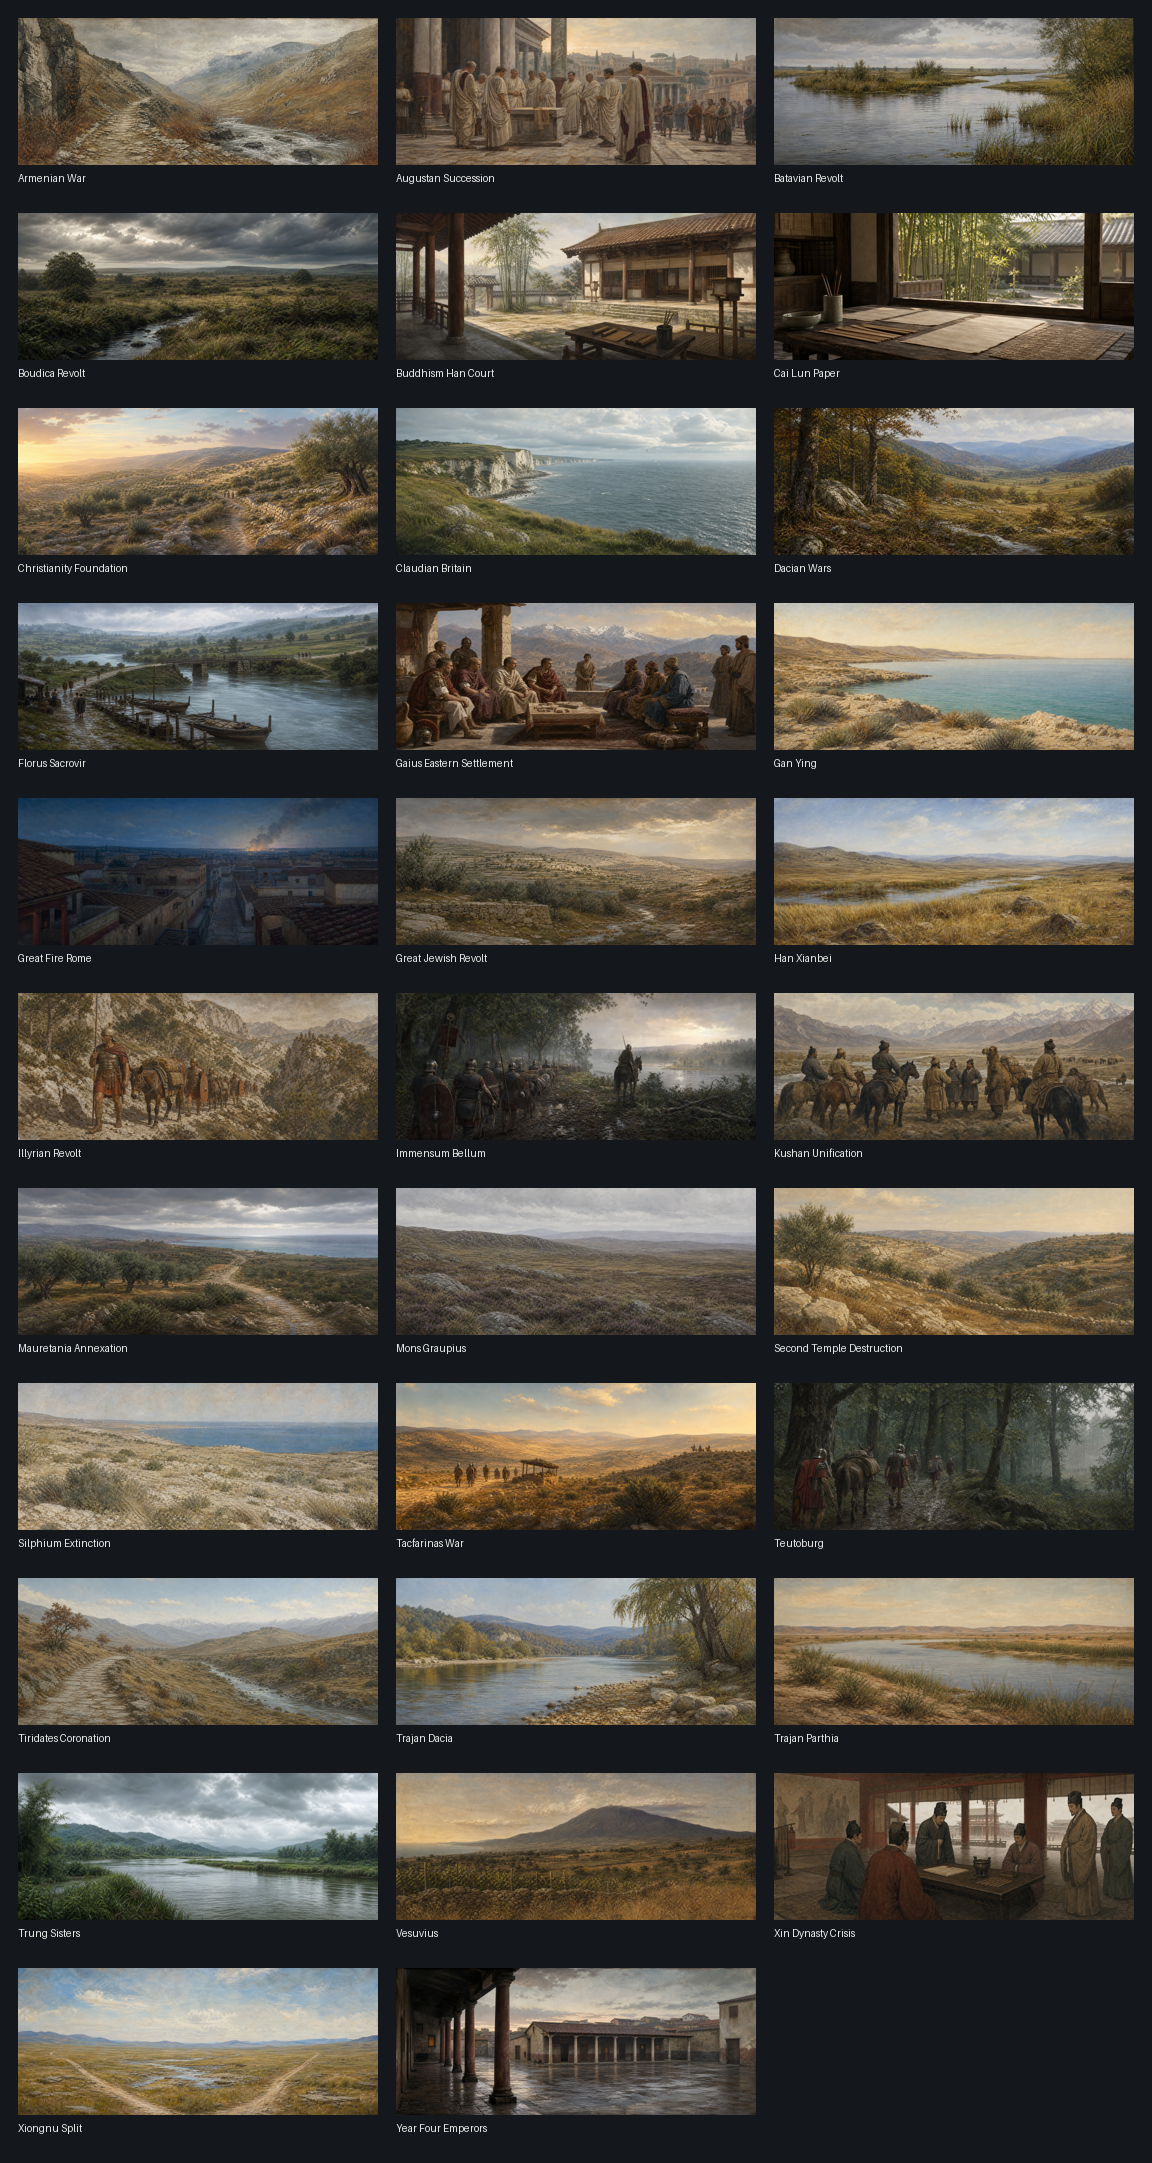
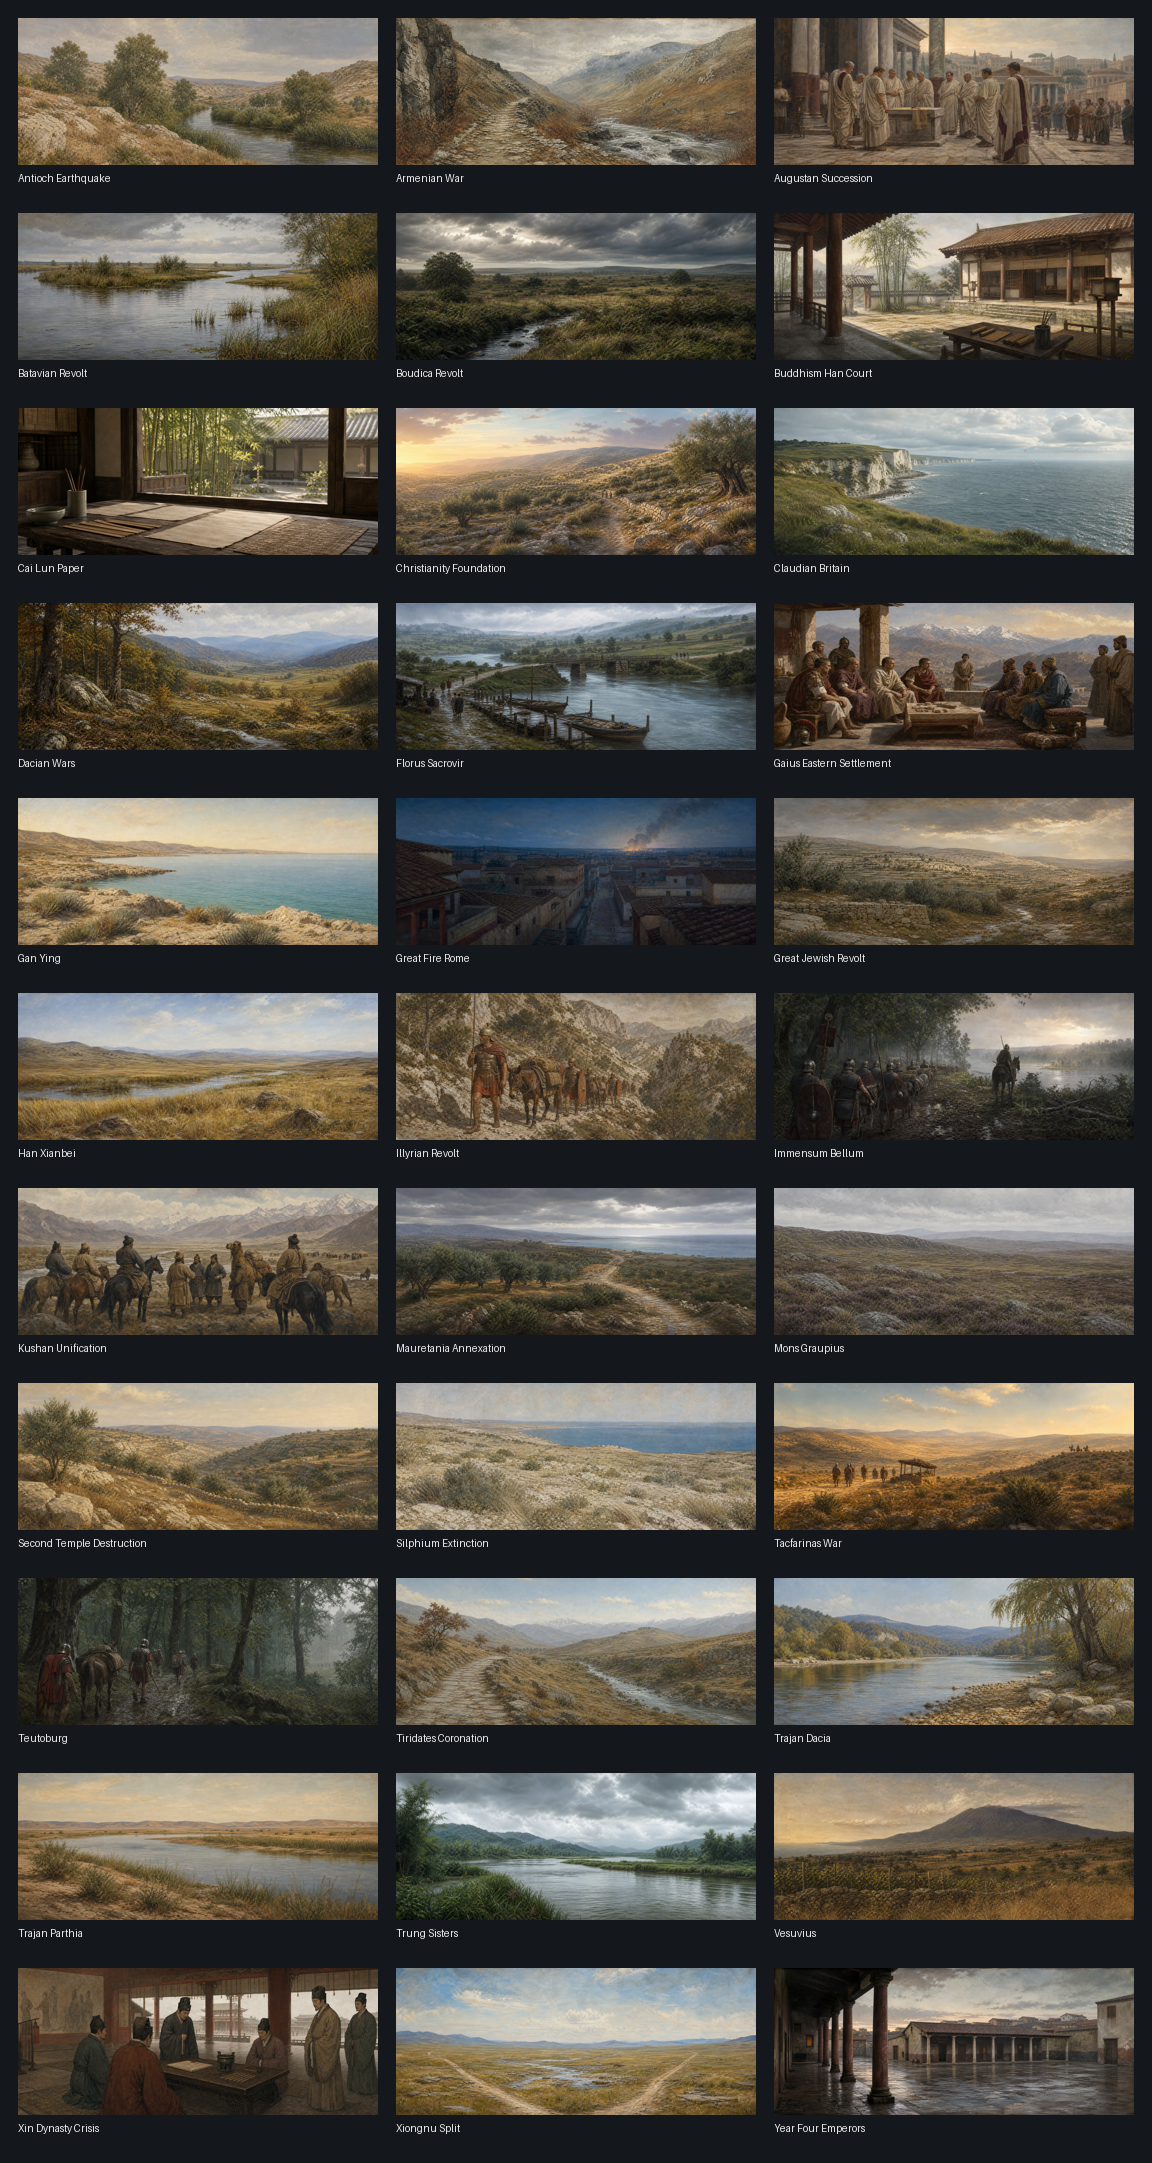
docs(m11): record Antioch earthquake art

diff --git a/docs/m11/contact_sheet.html b/docs/m11/contact_sheet.html
@@ -1,5 +1,6 @@
 <!doctype html>
 <html lang="en"><head><meta charset="utf-8"><title>ANTIQVITAS M11 Event Art Contact Sheet</title><style>body{background:#14171b;color:#eee;font:16px system-ui;margin:2rem}main{max-width:1200px;margin:auto}section{display:grid;grid-template-columns:repeat(3,1fr);gap:18px}figure{margin:0;background:#20252b;padding:8px}img{width:100%;height:auto;display:block}figcaption{padding:8px 2px 2px;text-transform:none}</style></head><body><main><h1>ANTIQVITAS M11 event-art review</h1><p>Generated from retained 1080x440 masters. Each image remains subject to its individual scope record.</p><section>
+    <figure><img src="../../assets_queue/generated/antq_antioch_earthquake_1080x440.png" alt="Antioch Earthquake"><figcaption>Antioch Earthquake</figcaption></figure>
     <figure><img src="../../assets_queue/generated/antq_armenian_war_1080x440.png" alt="Armenian War"><figcaption>Armenian War</figcaption></figure>
     <figure><img src="../../assets_queue/generated/antq_augustan_succession_1080x440.png" alt="Augustan Succession"><figcaption>Augustan Succession</figcaption></figure>
     <figure><img src="../../assets_queue/generated/antq_batavian_revolt_1080x440.png" alt="Batavian Revolt"><figcaption>Batavian Revolt</figcaption></figure>

diff --git a/docs/m11/M11_ANTIOCH_EARTHQUAKE_ART.md b/docs/m11/M11_ANTIOCH_EARTHQUAKE_ART.md
@@ -1,0 +1,26 @@
+# M11 Antioch earthquake illustration
+
+## Asset and scope
+
+The retained source is
+`assets_queue/generated_sources/antq_antioch_earthquake_source.png`; its exact
+1080x440 derivative is
+`assets_queue/generated/antq_antioch_earthquake_1080x440.png`. The game-facing
+BC7 DDS is `main_menu/gfx/interface/illustrations/event/antq_antioch_earthquake.dds`.
+
+The text-free image is deliberately non-literal Orontes-valley environmental
+context: a narrow calm river between pale limestone slopes, riparian trees,
+reeds, dry grass, and distant hills. It identifies no earthquake, city,
+Antioch, building, ruin, victim, person, action, date, or outcome. Review
+excluded settlement, debris, cracks, collapse, smoke, fire, disaster spectacle,
+readable writing, labels, and logos.
+
+## Engine verification
+
+`EVENT_IMAGES` in `tools/m10_second_century.py` owns the
+`antq_m10_second.2004` image link. The texture follows the inspected 1080x440
+BC7 country-event form, was round-tripped to PNG for visual review, and passed
+`make validate` plus enabled-mod `make smoke` with zero new error-log lines.
+
+Sources: ANTIQVITAS master plan sections 8.1, 9, and 20; local EU5
+country-event image contract.

diff --git a/docs/PROGRESS.md b/docs/PROGRESS.md
@@ -1,5 +1,16 @@
 # Progress
 
+## 2026-07-20 - M11 Antioch earthquake event illustration
+
+- Added a reviewed, landscape-only Orontes-valley image to the AD 115 Antioch
+  earthquake current through the generated event-image contract.
+- The engine-sized BC7 texture was round-trip inspected; `make validate` and
+  enabled-mod smoke are green with zero new error-log lines. The maintained M11
+  contact sheet now has thirty-three retained event masters.
+
+Next: continue the M11 later-century art queue and source-led M5/M6 audit
+while runtime-gated milestone checks remain deferred.
+
 ## 2026-07-20 - M11 Trajan's Parthian War event illustration
 
 - Added a reviewed, non-literal Mesopotamian river-plain image to the AD 113

diff --git a/docs/ASSUMPTIONS.md b/docs/ASSUMPTIONS.md
@@ -1,5 +1,15 @@
 # Historical Assumptions
 
+## 2026-07-20 - Antioch-earthquake art is landscape-only Orontes context
+
+The image is an unoccupied Orontes-valley landscape with a narrow calm river,
+pale limestone, riparian trees, reeds, dry grass, and distant hills. It
+identifies no earthquake, city, Antioch, building, ruin, victim, person, action,
+date, or outcome. It deliberately excludes settlement, debris, cracks,
+collapse, and disaster spectacle; it is not a reconstruction of the AD 115
+earthquake. Sources weighed: P8.1; plan sections 9 and 20. [secure broad
+regional context; illustrative composition only]
+
 ## 2026-07-20 - Trajan-Parthia art is non-literal Mesopotamian context
 
 The image is an unoccupied Mesopotamian river plain with slow water, reed

diff --git a/docs/TODO.md b/docs/TODO.md
@@ -220,7 +220,8 @@ after `make full` and its autonomous driver report are green.
 - [x] Generate, dimension-check, round-trip review, wire, and smoke-test the AD 101 Trajan's Dacian Wars event illustration through a non-literal Danube-Carpathian river-context treatment.
 - [x] Generate, dimension-check, round-trip review, wire, and smoke-test the AD 105 paper-standardization event illustration through a non-literal Eastern Han scholarly-material treatment.
 - [x] Generate, dimension-check, round-trip review, wire, and smoke-test the AD 113 Trajan's Parthian War event illustration through a non-literal Mesopotamian river-plain treatment.
-- [x] Render and review the maintained M11 event-art contact sheet (32 retained 1080x440 masters).
+- [x] Generate, dimension-check, round-trip review, wire, and smoke-test the AD 115 Antioch earthquake event illustration through a landscape-only Orontes-valley treatment.
+- [x] Render and review the maintained M11 event-art contact sheet (33 retained 1080x440 masters).
 - [ ] Reach event/decision targets; finish flags, icons, illustrations, loading/age art, localization, glossary, and credits.
 - [ ] Remove common-screen placeholders; run milestone gate and tag `M11-done`.
 

diff --git a/docs/m11/M11_CONTACT_SHEET.md b/docs/m11/M11_CONTACT_SHEET.md
@@ -5,7 +5,7 @@ every retained `assets_queue/generated/antq_*_1080x440.png` master. The HTML
 is the browsable review surface; the PNG is the compact visual record suitable
 for inclusion in the M11 milestone report.
 
-The current review contains thirty-two 1080x440 event masters. It was inspected for
+The current review contains thirty-three 1080x440 event masters. It was inspected for
 omissions, clipped labels, incorrect aspect ratios, readable text, watermarks,
 or obvious anachronistic material. Individual asset records retain the more
 specific historical-scope findings and engine checks.